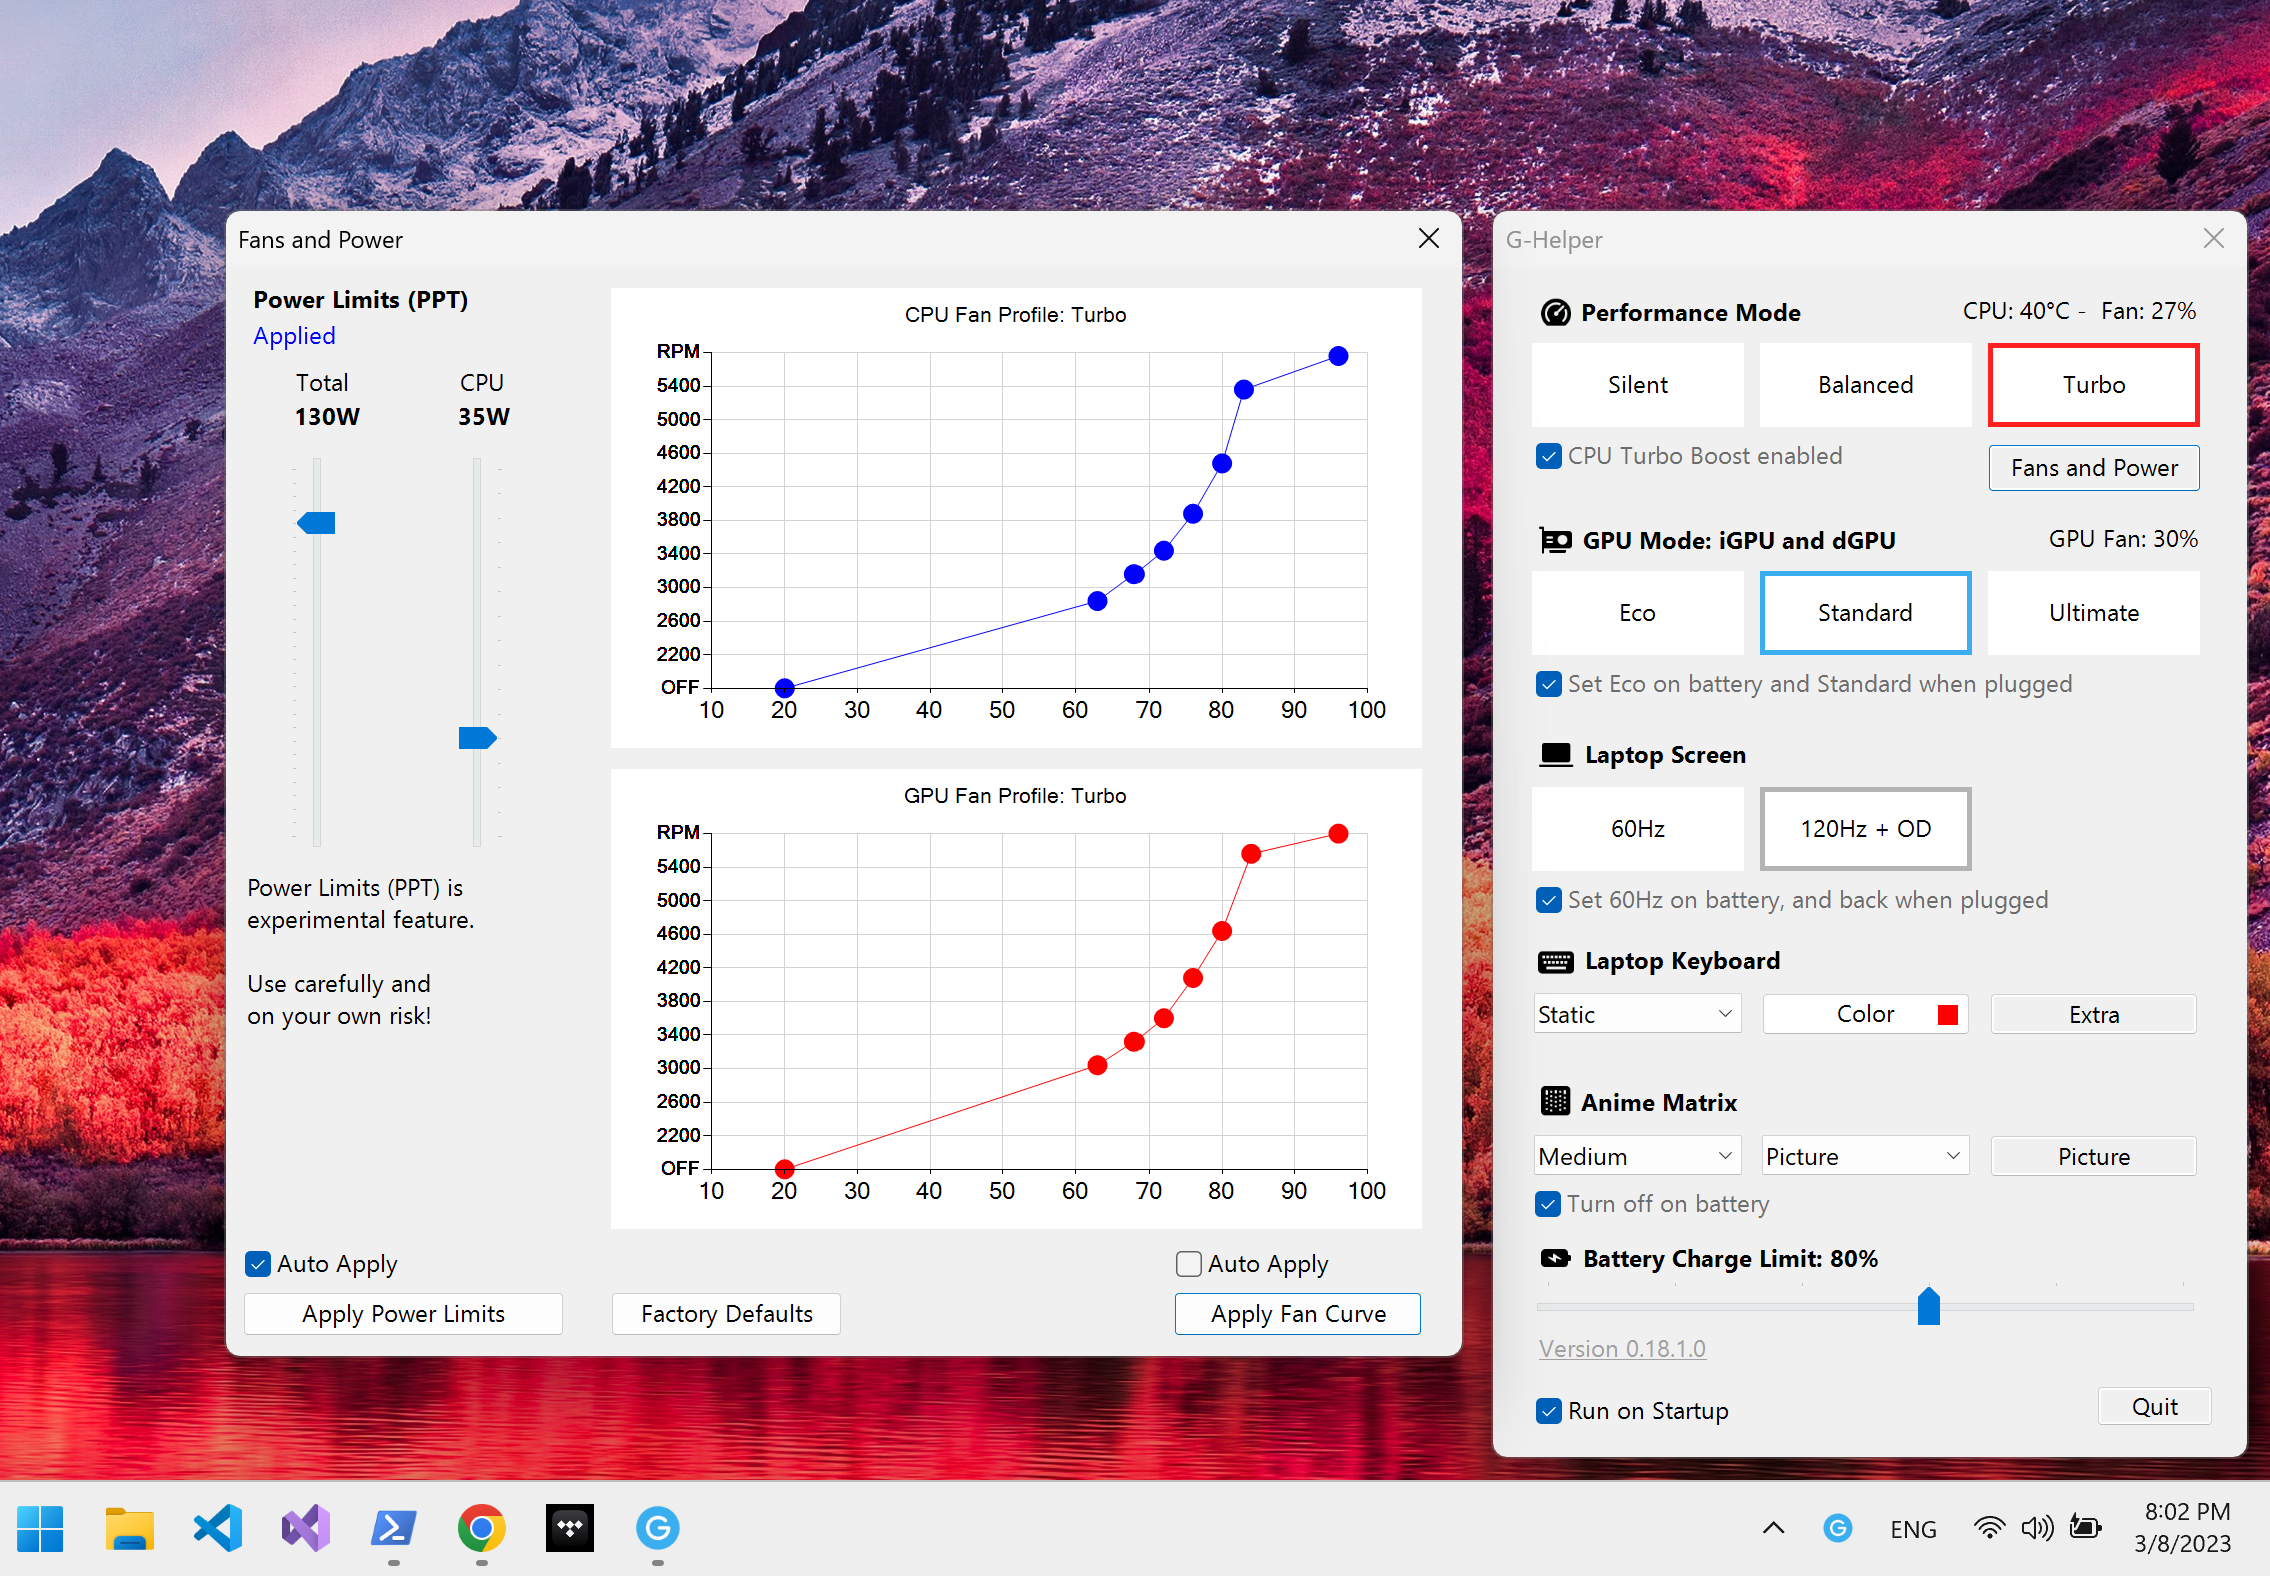
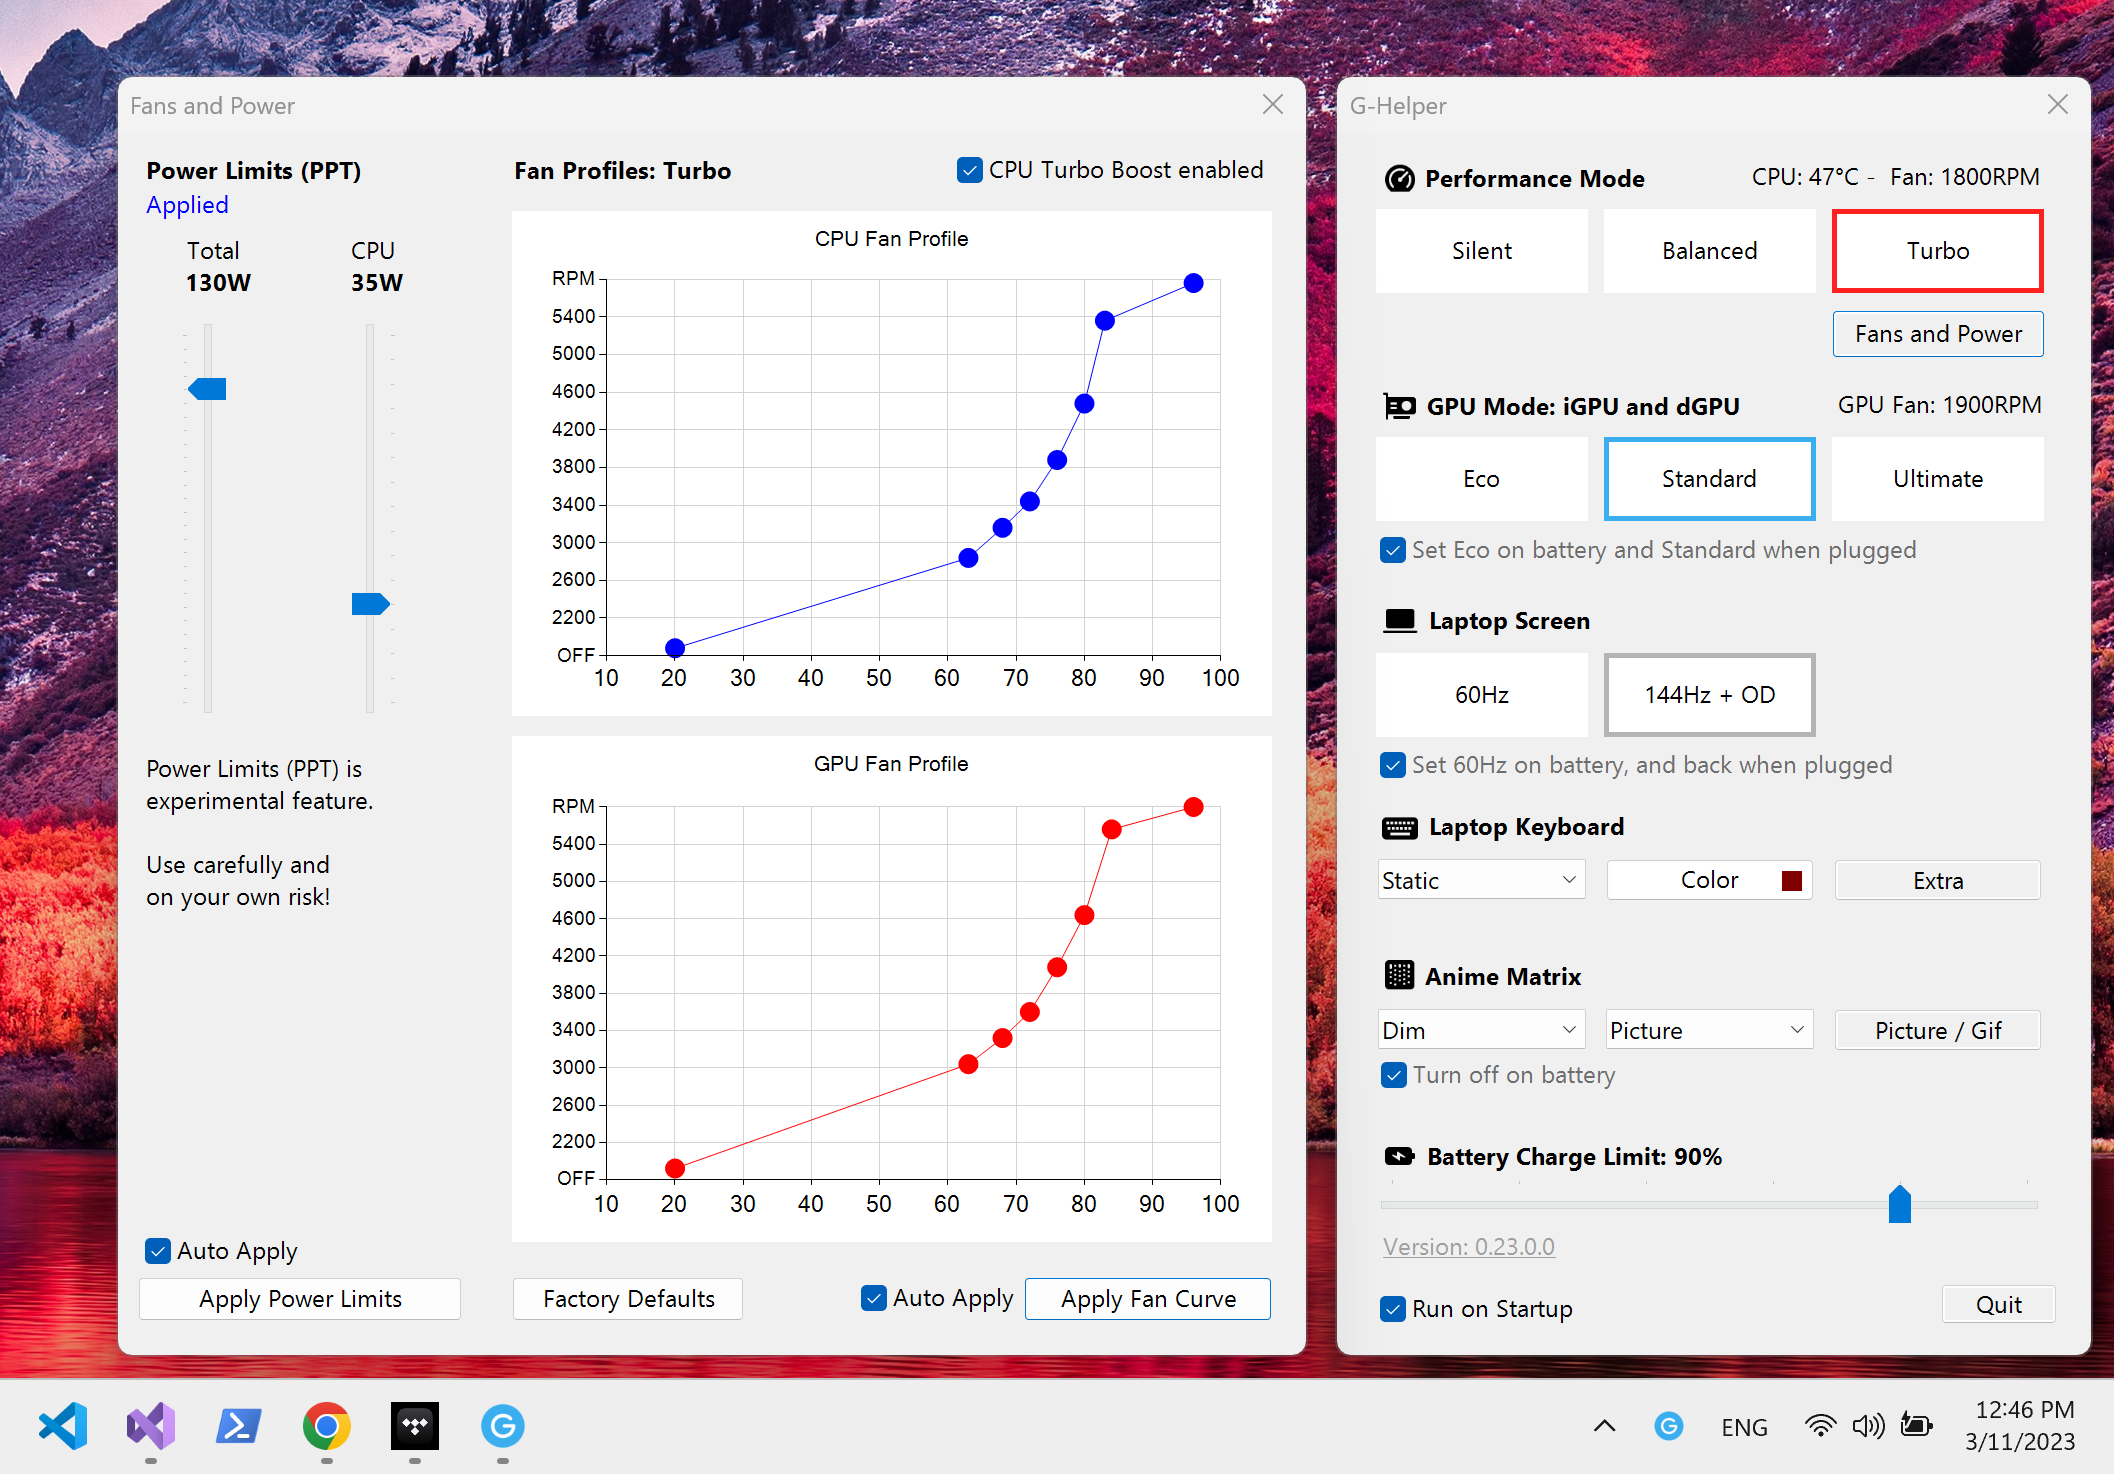
Screenshot

diff --git a/Fans.Designer.cs b/Fans.Designer.cs
@@ -28,8 +28,8 @@
         /// </summary>
         private void InitializeComponent()
         {
-            System.Windows.Forms.DataVisualization.Charting.ChartArea chartArea1 = new System.Windows.Forms.DataVisualization.Charting.ChartArea();
-            System.Windows.Forms.DataVisualization.Charting.ChartArea chartArea2 = new System.Windows.Forms.DataVisualization.Charting.ChartArea();
+            System.Windows.Forms.DataVisualization.Charting.ChartArea chartArea3 = new System.Windows.Forms.DataVisualization.Charting.ChartArea();
+            System.Windows.Forms.DataVisualization.Charting.ChartArea chartArea4 = new System.Windows.Forms.DataVisualization.Charting.ChartArea();
             panelFans = new Panel();
             tableFanCharts = new TableLayoutPanel();
             chartGPU = new System.Windows.Forms.DataVisualization.Charting.Chart();
@@ -103,8 +103,8 @@
             // 
             // chartGPU
             // 
-            chartArea1.Name = "ChartArea1";
-            chartGPU.ChartAreas.Add(chartArea1);
+            chartArea3.Name = "ChartArea1";
+            chartGPU.ChartAreas.Add(chartArea3);
             chartGPU.Dock = DockStyle.Fill;
             chartGPU.Location = new Point(2, 504);
             chartGPU.Margin = new Padding(2, 10, 2, 10);
@@ -115,8 +115,8 @@
             // 
             // chartCPU
             // 
-            chartArea2.Name = "ChartArea1";
-            chartCPU.ChartAreas.Add(chartArea2);
+            chartArea4.Name = "ChartArea1";
+            chartCPU.ChartAreas.Add(chartArea4);
             chartCPU.Dock = DockStyle.Fill;
             chartCPU.Location = new Point(2, 10);
             chartCPU.Margin = new Padding(2, 10, 2, 10);
@@ -152,7 +152,7 @@
             // 
             checkAuto.Anchor = AnchorStyles.Bottom | AnchorStyles.Right;
             checkAuto.AutoSize = true;
-            checkAuto.Location = new Point(377, 1089);
+            checkAuto.Location = new Point(377, 1086);
             checkAuto.Margin = new Padding(4, 2, 4, 2);
             checkAuto.Name = "checkAuto";
             checkAuto.Size = new Size(165, 36);
@@ -174,7 +174,7 @@
             // buttonApply
             // 
             buttonApply.Anchor = AnchorStyles.Bottom | AnchorStyles.Right;
-            buttonApply.Location = new Point(544, 1081);
+            buttonApply.Location = new Point(542, 1081);
             buttonApply.Margin = new Padding(4, 2, 4, 2);
             buttonApply.Name = "buttonApply";
             buttonApply.Size = new Size(248, 44);
@@ -215,7 +215,7 @@
             // 
             checkApplyPower.Anchor = AnchorStyles.Bottom | AnchorStyles.Left;
             checkApplyPower.AutoSize = true;
-            checkApplyPower.Location = new Point(29, 1039);
+            checkApplyPower.Location = new Point(27, 1039);
             checkApplyPower.Margin = new Padding(4, 2, 4, 2);
             checkApplyPower.Name = "checkApplyPower";
             checkApplyPower.Size = new Size(165, 36);
@@ -226,10 +226,10 @@
             // buttonApplyPower
             // 
             buttonApplyPower.Anchor = AnchorStyles.Bottom | AnchorStyles.Left | AnchorStyles.Right;
-            buttonApplyPower.Location = new Point(24, 1081);
+            buttonApplyPower.Location = new Point(20, 1081);
             buttonApplyPower.Margin = new Padding(4, 2, 4, 2);
             buttonApplyPower.Name = "buttonApplyPower";
-            buttonApplyPower.Size = new Size(300, 44);
+            buttonApplyPower.Size = new Size(324, 44);
             buttonApplyPower.TabIndex = 24;
             buttonApplyPower.Text = "Apply Power Limits";
             buttonApplyPower.UseVisualStyleBackColor = true;
